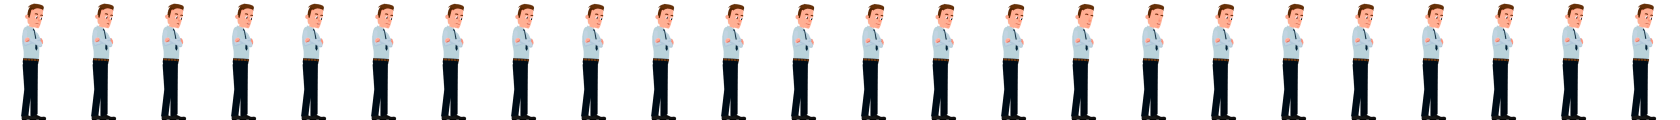
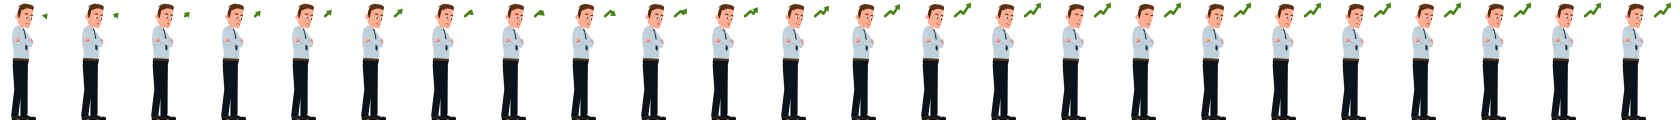
+

diff --git a/src/Characters/Manager.cpp b/src/Characters/Manager.cpp
@@ -1,5 +1,6 @@
 #include "../System/EntityContainer.h"
 #include "Manager.h"
+#include "Clerk.h"
 
 Manager::Manager(sf::Vector2f coordinates) : Movable(E_Manager, Manager::width, Manager::height) {
     setDefaultSpeed(150);
@@ -17,4 +18,56 @@ Manager::Manager(sf::Vector2f coordinates) : Movable(E_Manager, Manager::width, 
 
 void Manager::updateLogic() {
     Movable::updateLogic();
+
+    if (state == S_None && isSpawned()) {
+        if (!currentTarget && targetSearchResolution.getElapsedTime().asMilliseconds() >= 500) {
+            currentTarget = searchTarget();
+            targetSearchResolution.restart();
+        }
+
+        if (currentTarget) {
+            moving = true;
+            currentTarget->setWillBeBuffed(true);
+            setDrawOrder(D_Characters, true);
+
+            createBuffTargetDestination();
+        }
+    }
+}
+
+void Manager::createBuffTargetDestination() {
+    if (floor == currentTarget->getFloor()) {
+        if (currentTarget->getEType() == E_Clerk) {
+            auto clerk = dynamic_cast<Clerk *>(currentTarget);
+            destinations.push_back(Destination::createBuffPlaceDST(clerk));
+        }
+    } else {
+        targetElevator = searchNearestElevator();
+        targetElevator->incBoarding();
+
+        if (targetElevator) {
+            destinations.push_back(Destination::createElevatorWaitingDST(targetElevator, this));
+            destinations.push_back(Destination::createElevatorCabinDST(targetElevator, this));
+            destinations.push_back(Destination::createElevatorExitingDST(targetElevator, this, currentTarget->getWorldCoordinates()));
+
+            if (currentTarget->getEType() == E_Clerk) {
+                auto clerk = dynamic_cast<Clerk *>(currentTarget);
+                destinations.push_back(Destination::createBuffPlaceDST(clerk));
+            }
+        }
+    }
+}
+
+Movable *Manager::searchTarget() {
+    auto targets = EntityContainer::getGroupItems("movable");
+
+    for (auto &e:targets) {
+        auto movable = dynamic_cast<Movable *>(e);
+
+        if (!movable->isBuffed() && !movable->isWillBeBuffed()) {
+            return movable;
+        }
+    }
+
+    return nullptr;
 }

diff --git a/src/Basic/Movable.cpp b/src/Basic/Movable.cpp
@@ -162,6 +162,20 @@ void Movable::updateLogic() {
 
                     state = S_Working;
                     direction = Right;
+                    setDrawOrder(D_Characters_Working, true);
+
+                    worldCoordinates.y = final.getCoordinates().y;
+                    worldCoordinates.x = final.getCoordinates().x;
+
+                    moving = false;
+                }
+
+                if (local.getType() == DST_Buff_Position) {
+                    currentDST = DST_Buff_Position;
+                    destinations.pop_front();
+
+                    state = S_Working;
+                    direction = Right;
 
                     worldCoordinates.y = final.getCoordinates().y;
                     worldCoordinates.x = final.getCoordinates().x;
@@ -329,6 +343,8 @@ Movable::Movable(Entities type, int width, int height) : Entity(type) {
     addAnimation(S_Walk, gender, race, 24);
     addAnimation(S_Working, gender, race, 24);
     addAnimation(S_Smoking, gender, race, 66, 2750000);
+
+    setGroupName("movable");
 }
 
 float Movable::getDefaultSpeed() const {
@@ -477,6 +493,21 @@ Destination *Movable::getFinalDestination() {
     return &destinations.back();
 }
 
+bool Movable::isBuffed() const {
+    return buffed;
+}
+
+void Movable::setBuffed(bool buffed) {
+    Movable::buffed = buffed;
+}
+
+bool Movable::isWillBeBuffed() const {
+    return willBeBuffed;
+}
+
+void Movable::setWillBeBuffed(bool willBeBuffed) {
+    Movable::willBeBuffed = willBeBuffed;
+}
 
 
 

diff --git a/src/System/EntityContainer.cpp b/src/System/EntityContainer.cpp
@@ -11,6 +11,8 @@ namespace EntityContainer {
 
     std::vector<Elevator *> elevators;
 
+    bool sortNextFrame = false;
+
     void addToGroup(const std::string &groupName, Entity *target) {
         if (groupName != "~") {
             itemsByGroup[groupName].push_back(target);
@@ -30,7 +32,9 @@ namespace EntityContainer {
 
     void add(Entity *item) {
         items.push_back(item);
-        sort();
+        addToGroup(item->getGroupName(), item);
+
+        sortNextFrame = true;
     }
 
     void sort() {
@@ -107,8 +111,10 @@ namespace EntityContainer {
     void refreshEntities() {
         System::window->clear(System::c_background);
 
-        for (auto entity:items) {
-            entity->update();
+        const int iterableSize = items.size();
+        for (int i = 0; i < iterableSize; ++i) {
+            Entity *element = items[i];
+            element->update();
         }
 
         if (!itemsToRemove.empty()) {
@@ -126,6 +132,11 @@ namespace EntityContainer {
             }
 
             itemsToRemove.clear();
+        }
+
+        if (sortNextFrame) {
+            sort();
+            sortNextFrame = false;
         }
 
         if (System::debug) {

diff --git a/src/System/DebugPattern.cpp b/src/System/DebugPattern.cpp
@@ -1,6 +1,7 @@
 #include "../Objects/ElevatorCabin.h"
 #include "../Office/OfficeClerk.h"
 #include "../Characters/Clerk.h"
+#include "../Characters/Manager.h"
 #include "DebugPattern.h"
 #include "System.h"
 
@@ -20,6 +21,23 @@ namespace DebugPattern {
                 auto c = new Clerk({System::g_x + (i * 72), 300.f});
                 c->spawn();
             }
+        }
+
+        if (System::event.type == sf::Event::KeyPressed && System::event.key.code == sf::Keyboard::H) {
+            auto count = 4;
+
+            for (int i = 0; i < count; ++i) {
+                auto m = new Manager({System::g_x + (i * 72), 300.f});
+                m->spawn();
+            }
+        }
+
+        if (System::event.type == sf::Event::KeyPressed && System::event.key.code == sf::Keyboard::Numpad4) {
+            auto o = new OfficeClerk({1000, 175});
+            o->spawn();
+
+            auto o2 = new OfficeClerk({400, 175});
+            o2->spawn();
         }
 
         if (System::event.type == sf::Event::KeyPressed && System::event.key.code == sf::Keyboard::Numpad2) {

diff --git a/src/Component/Destination.cpp b/src/Component/Destination.cpp
@@ -64,6 +64,11 @@ Destination Destination::createWorkplaceDST(Clerk *movable) {
              movable->getCurrentWorkPlace()->getParentOffice()->getBottom() + movable->getHeight() / 2}, DST_Workplace};
 }
 
+Destination Destination::createBuffPlaceDST(Clerk *movable) {
+    return {{movable->getCurrentWorkPlace()->getWorldCoordinates().x - 35,
+             movable->getCurrentWorkPlace()->getParentOffice()->getBottom() + movable->getHeight() / 2}, DST_Buff_Position};
+}
+
 
 Destination Destination::createSmokeAreaDST(Movable *movable, sf::Vector2f &smokeArea) {
     auto scatter = 300;
@@ -75,3 +80,5 @@ Destination Destination::createSmokeAreaDST(Movable *movable, sf::Vector2f &smok
 Destination Destination::createHomeDST(Movable *movable, sf::Vector2f &home) {
     return {{home.x, System::groundLevel + Ground::height + movable->getHeight() / 2}, DST_Home};
 }
+
+

diff --git a/src/Basic/Movable.h b/src/Basic/Movable.h
@@ -34,11 +34,11 @@ protected:
     DestinationType currentDST = DST_Unknown;
     bool moving = false;
     Elevator *targetElevator = nullptr;
-    sf::Clock lastElevatorSearch;
-    int elevatorSearchResolutionSeconds = 5;
     bool smoking = false;
 
-    int routeRefreshIntervalSeconds = 5;
+    bool buffed = false;
+    bool willBeBuffed = false;
+    float buffStrength = 1.f;
 
     //relevant to game time
     int smokePeriodMinutes = 15;
@@ -56,6 +56,14 @@ protected:
 
 public:
     Movable(Entities type, int width, int height);
+
+    bool isBuffed() const;
+
+    void setBuffed(bool buffed);
+
+    bool isWillBeBuffed() const;
+
+    void setWillBeBuffed(bool willBeBuffed);
 
     bool isCrossingShafts();
 

diff --git a/src/Component/Elevator.cpp b/src/Component/Elevator.cpp
@@ -74,8 +74,8 @@ void Elevator::update() {
     auto distance = frameTimeSeconds * cabin->getSpeed() * System::timeFactor;
     auto waitTime = 0.5f;
 
+    //spam fucking button
     if (!cabin->getCurrentPeople().empty()) {
-        //debug
         for (auto &p:cabin->getCurrentPeople()) {
             addToQueue(p->getFinalDestination()->getFloor());
         }
@@ -136,11 +136,6 @@ void Elevator::update() {
 void Elevator::addToQueue(int floor) {
     //same floor
     if (floor == cabin->getFloor()) {
-        return;
-    }
-
-    //no places
-    if (cabin->getCurrentPeople().size() == cabin->getCapacity()) {
         return;
     }
 

diff --git a/src/Characters/Clerk.cpp b/src/Characters/Clerk.cpp
@@ -24,6 +24,7 @@ void Clerk::updateLogic() {
     //search workplace every 500ms
     if (!currentWorkPlace && workPlaceSearchResolution.getElapsedTime().asMilliseconds() >= 500) {
         searchWorkPlace();
+        workPlaceSearchResolution.restart();
     }
 
     //ONE TIME EXEC
@@ -44,7 +45,7 @@ void Clerk::updateLogic() {
             smoking && !moving &&
             isInWorkPlace() && state == S_Working &&
             System::gameTime.getHour() >= 12 &&
-            System::getRandom(0, System::fps * 1000) <= 50
+            System::getRandom(0, System::fps * 1000) <= 30
             ) {
 
         moving = true;

diff --git a/src/Basic/Entity.cpp b/src/Basic/Entity.cpp
@@ -156,7 +156,7 @@ int Entity::getDrawOrder() const {
 void Entity::setDrawOrder(int drawOrder, bool resort) {
     Entity::drawOrder = drawOrder;
     if (resort) {
-        EntityContainer::sort();
+        EntityContainer::sortNextFrame = true;
     }
 }
 
@@ -372,5 +372,7 @@ void Entity::setGroupName(const std::string &groupName) {
 }
 
 Entity::~Entity() {
-    System::debugCounters["e_dtor_calls"]++;
+    if (System::debug) {
+        System::debugCounters["e_dtor_calls"]++;
+    }
 }

diff --git a/src/Characters/Manager.h b/src/Characters/Manager.h
@@ -8,13 +8,19 @@ public:
     const static int width = 70;
     const static int height = 120;
 
+    Movable *currentTarget = nullptr;
+    sf::Clock targetSearchResolution;
+
     float dailySalary = 100;
     bool salaryProcessed = false;
 
     explicit Manager(sf::Vector2f coordinates);
 
     void updateLogic() override;
-};
 
+    void createBuffTargetDestination();
+
+    Movable *searchTarget();
+};
 
 #endif //THE_CORP_GAME_MANAGER_H

diff --git a/src/System/Enum.h b/src/System/Enum.h
@@ -10,7 +10,7 @@ enum DrawOrder {
     D_Offices = 98,
     D_Offices_Spawning = 99,
 
-    D_Characters_Wokring = 100,
+    D_Characters_Working = 100,
     D_Chair = 105,
     D_ElevatorShafts = 110,
     D_ElevatorCabin = 120,
@@ -27,7 +27,8 @@ enum DestinationType {
     DST_Elevator_Inside_Cabin = 2,
     DST_Workplace = 3,
     DST_SmokeArea = 5,
-    DST_Home = 6
+    DST_Home = 6,
+    DST_Buff_Position = 7,
 };
 
 enum Gender {

diff --git a/src/System/EntityContainer.h b/src/System/EntityContainer.h
@@ -13,8 +13,10 @@
 namespace EntityContainer {
 
     extern std::vector<sf::VertexArray> verticies;
+
     extern std::vector<Elevator *> elevators;
 
+    extern bool sortNextFrame;
 
     //groups
     extern std::map<std::string, std::vector<Entity *>> itemsByGroup;
@@ -51,6 +53,4 @@ namespace EntityContainer {
 
     void refreshEntities();
 }
-
-
 #endif //THE_CORP_GAME_ENTITYCONTAINER_H
